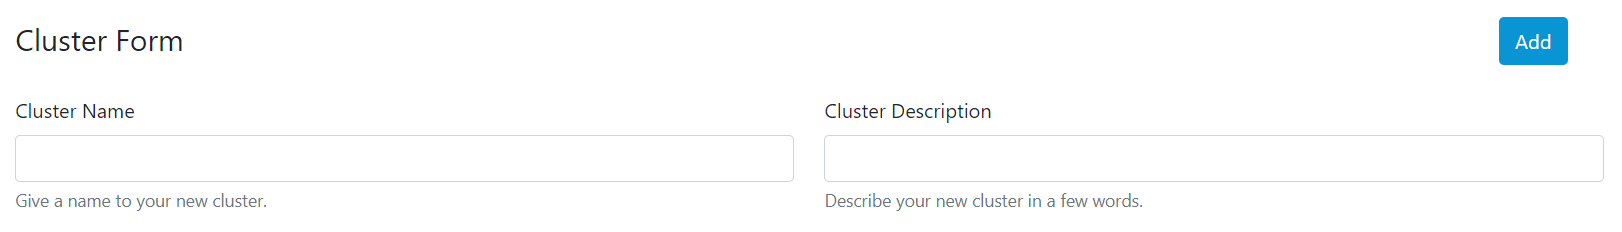
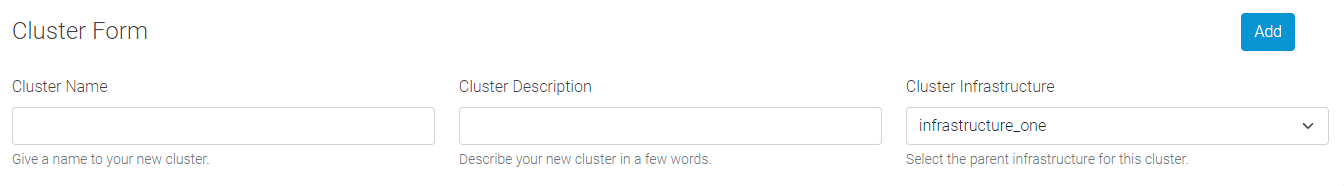
last update

diff --git a/documentation/v1.1.1/settings.html b/documentation/v1.1.1/settings.html
@@ -11,41 +11,39 @@
 	<div class="mainContainer documentationChapterMainContainer">
 		
 		<h1 class="documentationChapterTitle mainTitle">SETTINGS</h1>
-		<img src="/pictures/documentation/cluster/cluster_button.PNG">
+		<img src="/pictures/documentation/settings/settings_button.PNG">
 		<p>The cluster is a Blast object member of the infrastructure sublayer, the cluster can have one or more downlinks to node objects also the cluster can have one more uplinks to infrastructure objects. 
 		</p>
-	
-		<h3 class="documentationChapterTitle">Cluster form</h3>
-		<img class="documentImage" src="/pictures/documentation/cluster/cluster_form.PNG" height="128px" width="auto">
+
+		<h3 class="documentationChapterTitle">Settings menu</h3>
+		<img class="documentImage" src="/pictures/documentation/settings/settings_menu.PNG" height="64px" width="auto">
+		<p>A new cluster can be created by filling the cluster form. Every newly created cluster will be part of the current realm.</p>
+
+		<h3 class="documentationChapterTitle">Settings form - Ansible</h3>
+		<img class="documentImage" src="/pictures/documentation/settings/settings_form_ansible.PNG" height="332px" width="auto">
 		<p>A new cluster can be created by filling the cluster form. Every newly created cluster will be part of the current realm.
 		<ul>
-			<li><b>cluster name</b> is a mandatory field, it names your cluster.</li>
-			<li><b>cluster description</b> is an optional field, it describes your cluster shortly.</li>
+			<li><b>ansible username</b> is a mandatory field, it names your cluster.</li>
+			<li><b>ansible password</b> is an optional field, it describes your cluster shortly.</li>
+			<li><b>ansible password set</b> is an optional field, it describes your cluster shortly.</li>
+			<li><b>ansible certificate</b> is an optional field, it describes your cluster shortly.</li>
+			<li><b>ansible certificate set</b> is an optional field, it describes your cluster shortly.</li>
+			<li><b>ansible inventory location</b> is an optional field, it describes your cluster shortly.</li>
 		</ul>
 		</p>
 	
-		<h3 class="documentationChapterTitle">Cluster list</h3>
-		<img class="documentImage" src="/pictures/documentation/cluster/cluster_list.PNG" height="332px" width="auto">
-		<p>All clusters of the current realm are visibile as card in the list section. Click on the cluster card to access to the cluster details section.</p>
-		
-		<h3 class="documentationChapterTitle">Cluster details</h3>
-		<img class="documentImage" src="/pictures/documentation/cluster/cluster_details.PNG" height="192px" width="auto">
-		<p>Click on the cluster card of your choice to open the cluster details. The cluster details contains three sections:
+		<h3 class="documentationChapterTitle">Settings form - SSH</h3>
+		<img class="documentImage" src="/pictures/documentation/settings/settings_form_ssh.PNG" height="332px" width="auto">
+		<p>All clusters of the current realm are visibile as card in the list section. Click on the cluster card to access to the cluster details section.
 		<ul>
-			<li><b>cluster details</b> shows the id, name, description, realms.</li>
-			<li><b>cluster nodes management</b> allows you to manage the cluster nodes.</li>
-			<li><b>cluster nodes list</b> lists the nodes linked.</li>
-		</ul>The picture above is an exemple of a cluster details section.</p>
-		
-		
-		<h3 class="documentationChapterTitle">Delete a cluster</h3>
-		<p></p>
-		
-		<h3 class="documentationChapterTitle">Cluster nodes management</h3>
-		<img class="documentImage" src="/pictures/documentation/cluster/cluster_node_management.PNG" height="72px" width="auto">
-		<p></p>
-
-		
+			<li><b>ssh username</b> is a mandatory field, it names your cluster.</li>
+			<li><b>ssh password</b> is an optional field, it describes your cluster shortly.</li>
+			<li><b>ssh password set</b> is an optional field, it describes your cluster shortly.</li>
+			<li><b>ssh certificate</b> is an optional field, it describes your cluster shortly.</li>
+			<li><b>ssh certificate set</b> is an optional field, it describes your cluster shortly.</li>
+			<li><b>ssh inventory location</b> is an optional field, it describes your cluster shortly.</li>
+		</ul>
+		</p>
 		
 	</div>
 </body>

diff --git a/documentation/v1.1.1/script.html b/documentation/v1.1.1/script.html
@@ -11,42 +11,40 @@
 	<div class="mainContainer documentationChapterMainContainer">
 		
 		<h1 class="documentationChapterTitle mainTitle">SCRIPT</h1>
-		<img src="/pictures/documentation/cluster/cluster_button.PNG">
+		<img src="/pictures/documentation/script/script_button.PNG">
 		<p>The cluster is a Blast object member of the infrastructure sublayer, the cluster can have one or more downlinks to node objects also the cluster can have one more uplinks to infrastructure objects. 
 		</p>
 	
-		<h3 class="documentationChapterTitle">Cluster form</h3>
-		<img class="documentImage" src="/pictures/documentation/cluster/cluster_form.PNG" height="128px" width="auto">
+		<h3 class="documentationChapterTitle">Script form</h3>
+		<img class="documentImage" src="/pictures/documentation/script/script_form.PNG" height="292px" width="auto">
 		<p>A new cluster can be created by filling the cluster form. Every newly created cluster will be part of the current realm.
 		<ul>
-			<li><b>cluster name</b> is a mandatory field, it names the script object.</li>
-			<li><b>cluster description</b> is an optional field, it describes the script object shortly.</li>
+			<li><b>script file</b> is a mandatory field, it names the script object.</li>
+			<li><b>script arguments</b> is an optional field, it describes the script object shortly.</li>
+			<li><b>script description</b> is an optional field, it describes the script object shortly.</li>
+			<li><b>script lang</b> is an optional field, it describes the script object shortly.</li>
+			<li><b>script realm</b> is an optional field, it describes the script object shortly.</li>
+			<li><b>script shareable</b> is an optional field, it describes the script object shortly.</li>
 		</ul>
 		</p>
 	
-		<h3 class="documentationChapterTitle">Cluster list</h3>
-		<img class="documentImage" src="/pictures/documentation/cluster/cluster_list.PNG" height="332px" width="auto">
+		<h3 class="documentationChapterTitle">Script list</h3>
+		<img class="documentImage" src="/pictures/documentation/script/script_list.PNG" height="256px" width="auto">
 		<p>All clusters of the current realm are visibile as card in the list section. Click on the cluster card to access to the cluster details section.</p>
 		
-		<h3 class="documentationChapterTitle">Cluster details</h3>
-		<img class="documentImage" src="/pictures/documentation/cluster/cluster_details.PNG" height="192px" width="auto">
+		<h3 class="documentationChapterTitle">script details</h3>
+		<img class="documentImage" src="/pictures/documentation/script/script_details.PNG" height="292px" width="auto">
 		<p>Click on the cluster card of your choice to open the cluster details. The cluster details contains three sections:
 		<ul>
 			<li><b>cluster details</b> shows the id, name, description, realms.</li>
 			<li><b>cluster nodes management</b> allows you to manage the cluster nodes.</li>
 			<li><b>cluster nodes list</b> lists the nodes linked.</li>
 		</ul>The picture above is an exemple of a cluster details section.</p>
-		
-		
-		<h3 class="documentationChapterTitle">Delete a cluster</h3>
-		<p></p>
-		
-		<h3 class="documentationChapterTitle">Cluster nodes management</h3>
-		<img class="documentImage" src="/pictures/documentation/cluster/cluster_node_management.PNG" height="72px" width="auto">
+
+		<h3 class="documentationChapterTitle">script content</h3>
+		<img class="documentImage" src="/pictures/documentation/script/script_content.PNG" height="192px" width="auto">
 		<p></p>
 
-		
-		
 	</div>
 </body>
 </html>

diff --git a/documentation.html b/documentation.html
@@ -16,8 +16,12 @@
 -->
 <html>
 <head>
-	<meta charset="utf-8">
+	<meta charset="UTF-8">
 	<title>BLAST Documentation</title>
+	<meta name="author" content="www.blast.eu.com">
+	<meta name="description" content="The blast software documentation">
+	<meta name="viewport" content="width=device-width, initial-scale=1.0">
+	<link rel="icon" href="pictures/favicon.ico">
 	<link rel="stylesheet" href="/css/common.css" type="text/css">
 	<link rel="stylesheet" href="/css/documentation.css" type="text/css">
 </head>
@@ -32,9 +36,9 @@
 				<li class="menuList">
 					<a class="menuListElement" href="/documentation.html">Documentation</a>
 				</li>
-				<li class="menuList">
+				<!-- <li class="menuList">
 					<a class="menuListElement" href="/product.html">Product</a>
-				</li>
+				</li> -->
 			</ul>
 		</div>
 		
@@ -64,13 +68,13 @@
 							<li class="documentationMenuChapter" onClick="display_doc_content('settings') ;">Settings</li>
 						</ul>
 					</li>
-					<li class="documentationMenuChapterTitle">System</li>
+					<!-- <li class="documentationMenuChapterTitle">System</li>
 					<li>
 						<ul class="documentationMenuList">
 							<li class="documentationMenuChapter" onclick="display_doc_content('install') ;">Install</li>
 							<li class="documentationMenuChapter" onclick="display_doc_content('config') ;">Config</li>
 						</ul>
-					</li>
+					</li> -->
 				</ul>
 			</div>
 		</div>
@@ -90,7 +94,6 @@
 	
 	function alertsize(pixels){
     	pixels+=100;
-		console.log(pixels)
     	document.getElementById("documentation-display-container").style.height=pixels+"px";
 	}
 	

diff --git a/css/common.css b/css/common.css
@@ -42,7 +42,7 @@ li {
 	margin-bottom: 0;
 	background-color: #000;
 	width: 100%;
-	height: 55px;
+	height: 56px;
 	z-index: 1000;
 	border-bottom: 3px solid #0095D3;
 }
@@ -58,29 +58,41 @@ li {
 
 .menuList {
 	margin: 0;
-	margin-top: 15px;
+	margin-top: 18px;
+	margin-left: 25px;
 }
 
 .menuListElement {
-	padding: 20px;
+	padding-bottom: 5px;
 	text-decoration: none;
-	font-size: 16px;
-	color: #C0C0C0;
-	font-weight: bold;
+	font-size: 14px;
+	color: #dcdcdc;
+	font-family: Segoe UI,SegoeUI,"Helvetica Neue",Helvetica,Arial,sans-serif;
 }
 
 .menuListElement:hover {
 	cursor: pointer;
-	background-color: #333;
-	color: #fff;
+	// background-color: #333;
+	// color: #fff;
+	border-bottom: solid thin #fff;
+
 }
 
 .menuListImage {
 	margin-left: 15px;
 	padding: 10px;
+	padding-right: 0;
 	text-decoration: none;
 	font-size: 20px;
 	color: #C0C0C0;
+}
+
+.menuListTitle {
+    padding: 0;
+    margin: 0;
+    margin-top: 18px;
+    color: #ffe873;
+    font-family: Segoe UI,SegoeUI,"Helvetica Neue",Helvetica,Arial,sans-serif;
 }
 
 .mainContent {
@@ -90,8 +102,4 @@ li {
 	top: 0;
 	left: 0;
 	margin-top: 60px;
-}
-
-.footerContent {
-	
 }

diff --git a/documentation/v1.1.1/cluster.html b/documentation/v1.1.1/cluster.html
@@ -21,6 +21,7 @@
 		<ul>
 			<li class="documentationList"><b>cluster name</b> is a mandatory field, it names the cluster object.</li>
 			<li class="documentationList"><b>cluster description</b> is an optional field, it describes the cluster object shortly.</li>
+			<li class="documentationList"><b>cluster infrastructure</b> is an optional field, select a parent infrastructure to link.</li>
 		</ul>
 		</p>
 	
@@ -36,11 +37,7 @@
 			<li class="documentationList"><b>cluster nodes management</b> allows you to manage the cluster nodes.</li>
 			<li class="documentationList"><b>cluster nodes list</b> lists the nodes linked.</li>
 		</ul>The picture above is an exemple of a cluster details section.</p>
-		
-		
-		<h3 class="documentationChapterTitle">Delete a cluster</h3>
-		<p></p>
-		
+
 		<h3 class="documentationChapterTitle">Cluster nodes management</h3>
 		<img class="documentImage" src="/pictures/documentation/cluster/cluster_node_management.PNG" height="72px" width="auto">
 		<p></p>

diff --git a/home.html b/home.html
@@ -13,14 +13,18 @@
 		<div id="home-menu-container" class="menuContainer">
 			<ul class="menuListContainer">
 				<li>
-					<a class="menuListImage" href="/home.html"><img src="/pictures/blast.jpg" height="56px" width="56px"/></a>
+					<a class="menuListImage" href="/home.html">
+						<img src="/pictures/blast.jpg" height="56px" width="56px"/>
+					</a>
 				</li>
+				<li class="menuListTitle">BLAST</li>
+				<!--
 				<li class="menuList">
 					<a class="menuListElement" href="/documentation.html">Documentation</a>
 				</li>
 				<li class="menuList">
 					<a class="menuListElement" href="/product.html">Product</a>
-				</li>
+				</li> -->
 			</ul>
 		</div>
 		<div class="mainContent">
@@ -91,7 +95,7 @@
 						</ul>
 					</div>
 				</div>
-				<div class="footerCopyright">© Blast 2022</div>
+				<div class="footerCopyright">© Blast 2022 All rights reserved - Brussels, BE</div>
 			</footer>
 		</div>
 	</div>

diff --git a/documentation/v1.1.1/node.html b/documentation/v1.1.1/node.html
@@ -20,7 +20,8 @@
 		<ul>
 			<li class="documentationList"><b>node hostname</b> is a mandatory field, it is the hostname of the node or any alias.</li>
 			<li class="documentationList"><b>node ip</b> is a mandatory field, it is the ip of the node.</li>
-			<li class="documentationList"><b>node description</b> is an optional fields, it describes the node object shortly.</li>
+			<li class="documentationList"><b>node cluster</b> is an optional field, select a parent cluster to link.</li>
+			<li class="documentationList"><b>node description</b> is an optional field, it describes the node object shortly.</li>
 			<li class="documentationList"><b>scan by node ip</b> is mandatory selector, the default value is false. It describes what parameter BLAST will use to access the node. If selected then BLAST will use the node ip else BLAST will use the node hostname.</li>
 		</ul>
 		</p>

diff --git a/documentation/v1.1.1/scheduler.html b/documentation/v1.1.1/scheduler.html
@@ -14,7 +14,7 @@
 		<img src="/pictures/documentation/scheduler/scheduler_button.PNG">
 		<p>The scheduler is a Blast object.</p>
 		
-		<h3 class="documentationChapterTitle">Scheduler_menu</h3>
+		<h3 class="documentationChapterTitle">Scheduler menu</h3>
 		<img src="/pictures/documentation/scheduler/scheduler_menu.PNG">
 		<p></p>
 	

diff --git a/product.html b/product.html
@@ -32,9 +32,9 @@
 				<li class="menuList">
 					<a class="menuListElement" href="/documentation.html">Documentation</a>
 				</li>
-				<li class="menuList">
+				<!-- <li class="menuList">
 					<a class="menuListElement" href="/product.html">Product</a>
-				</li>
+				</li> -->
 			</ul>
 		</div>
 		
